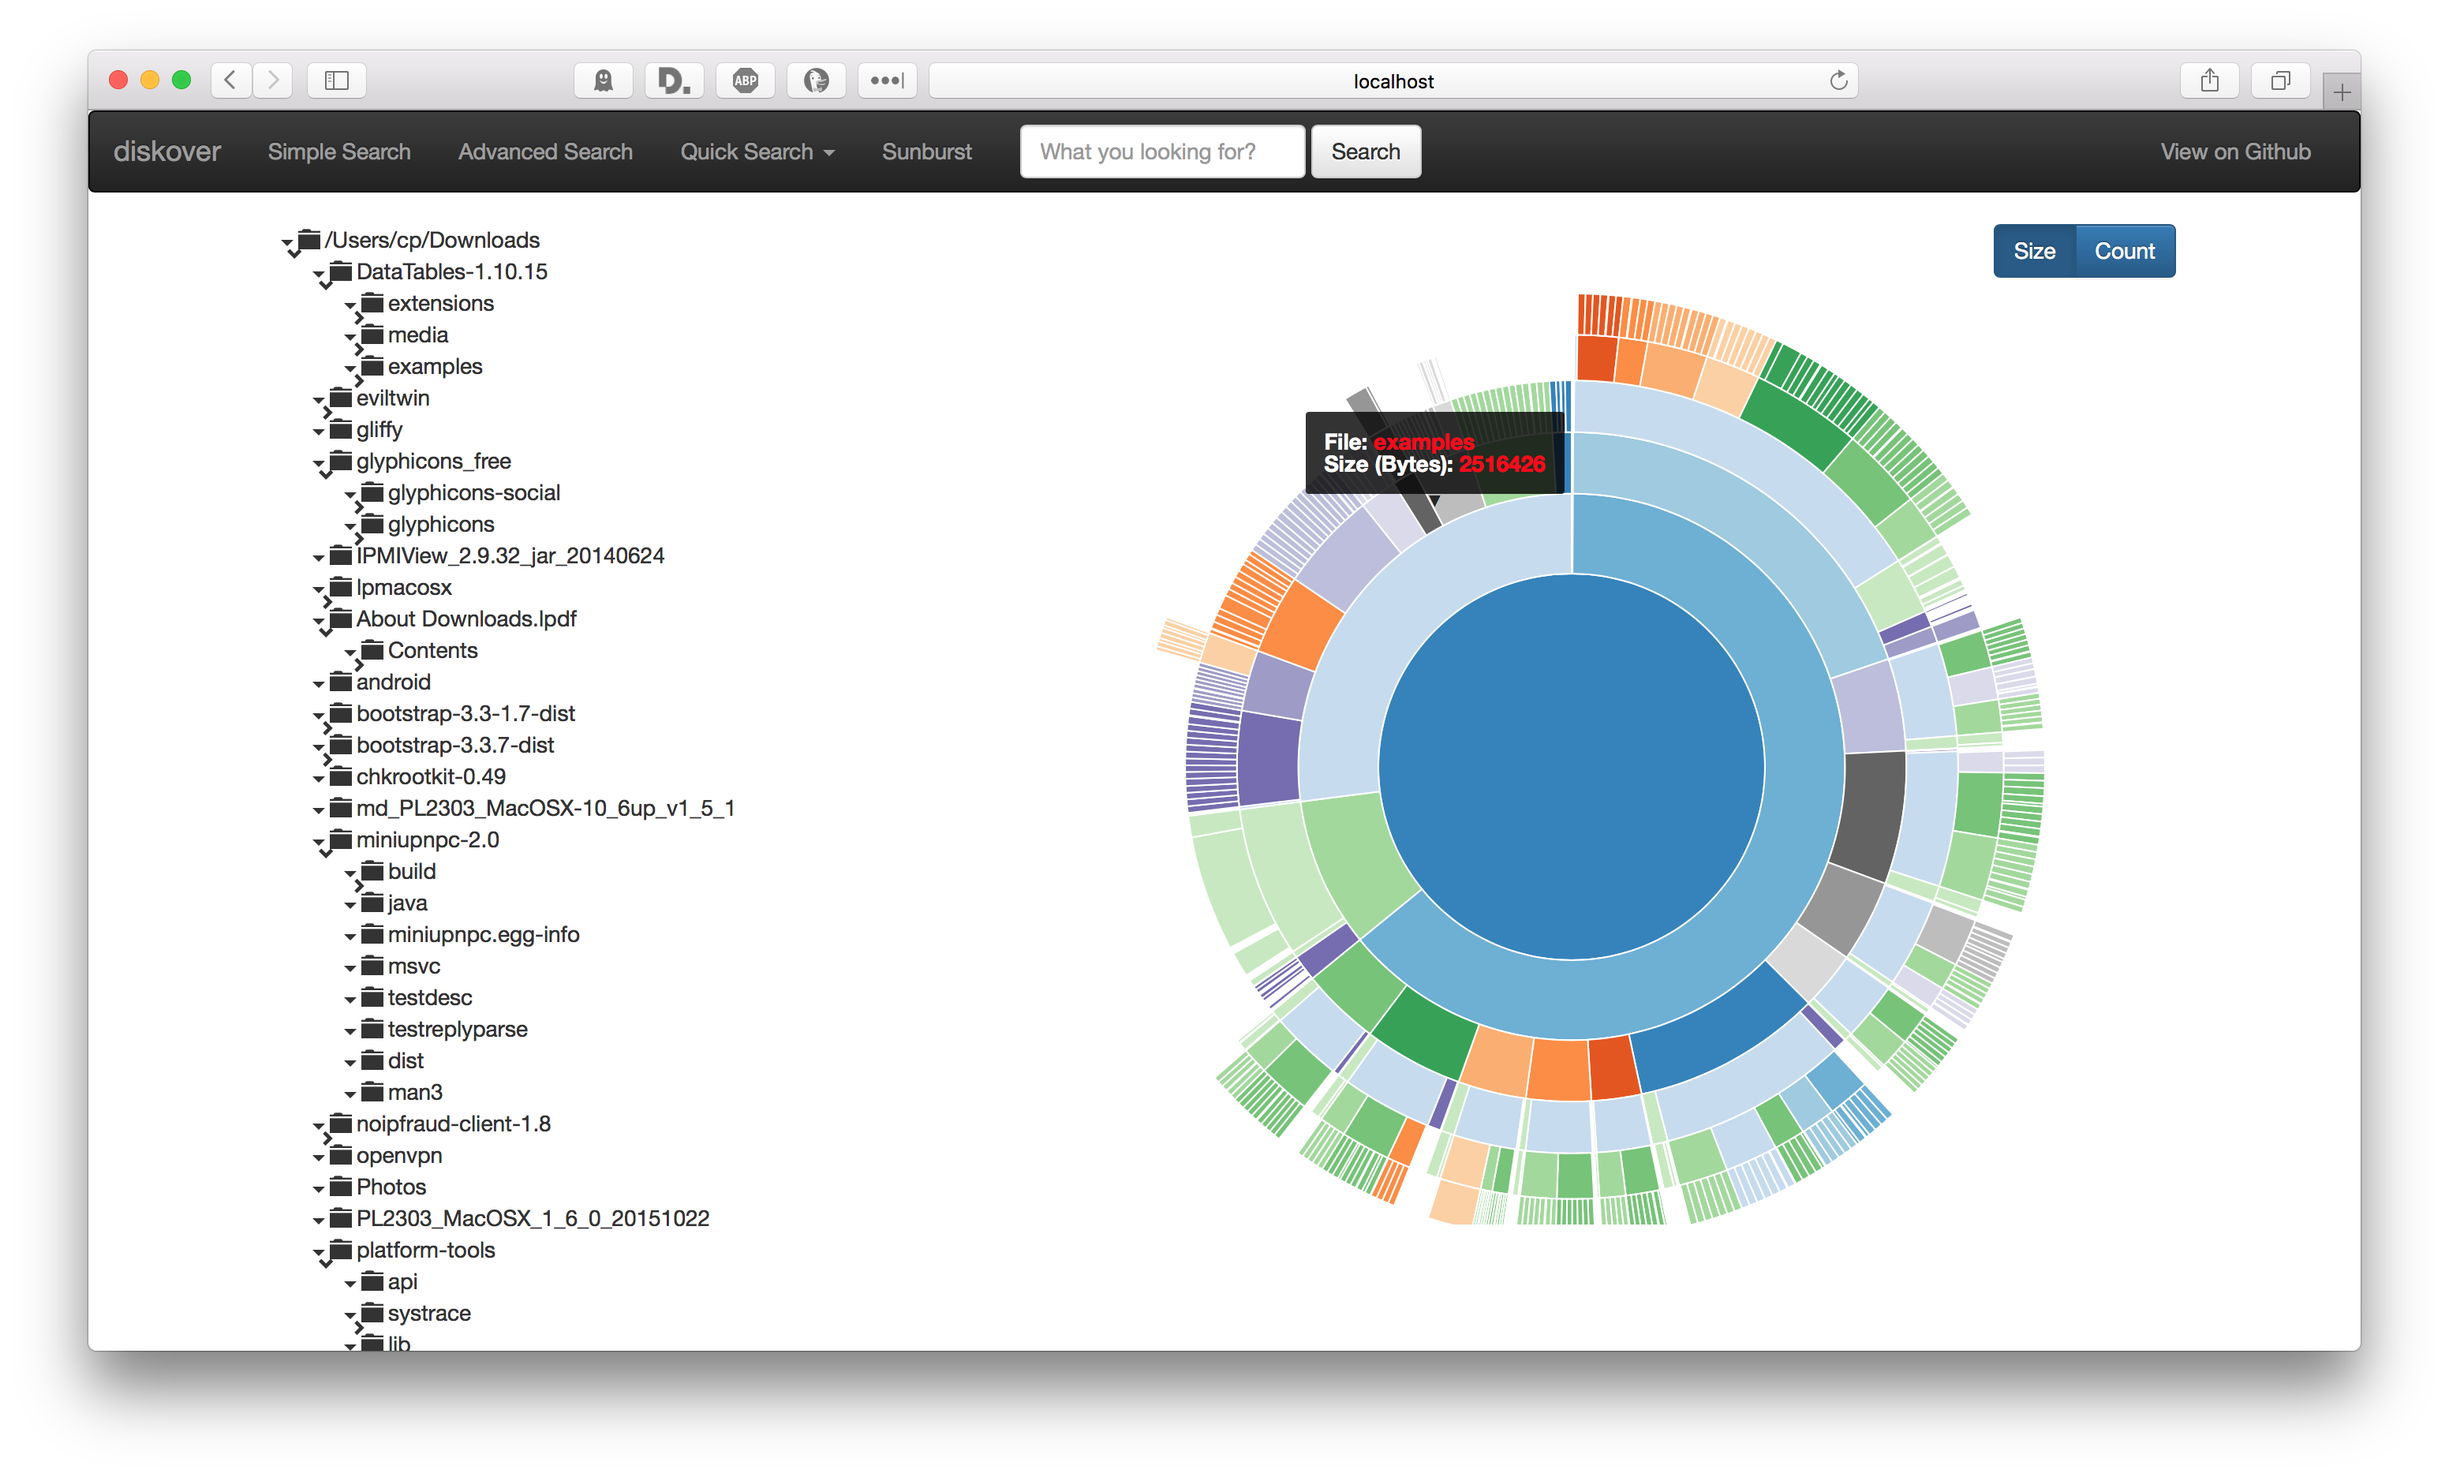
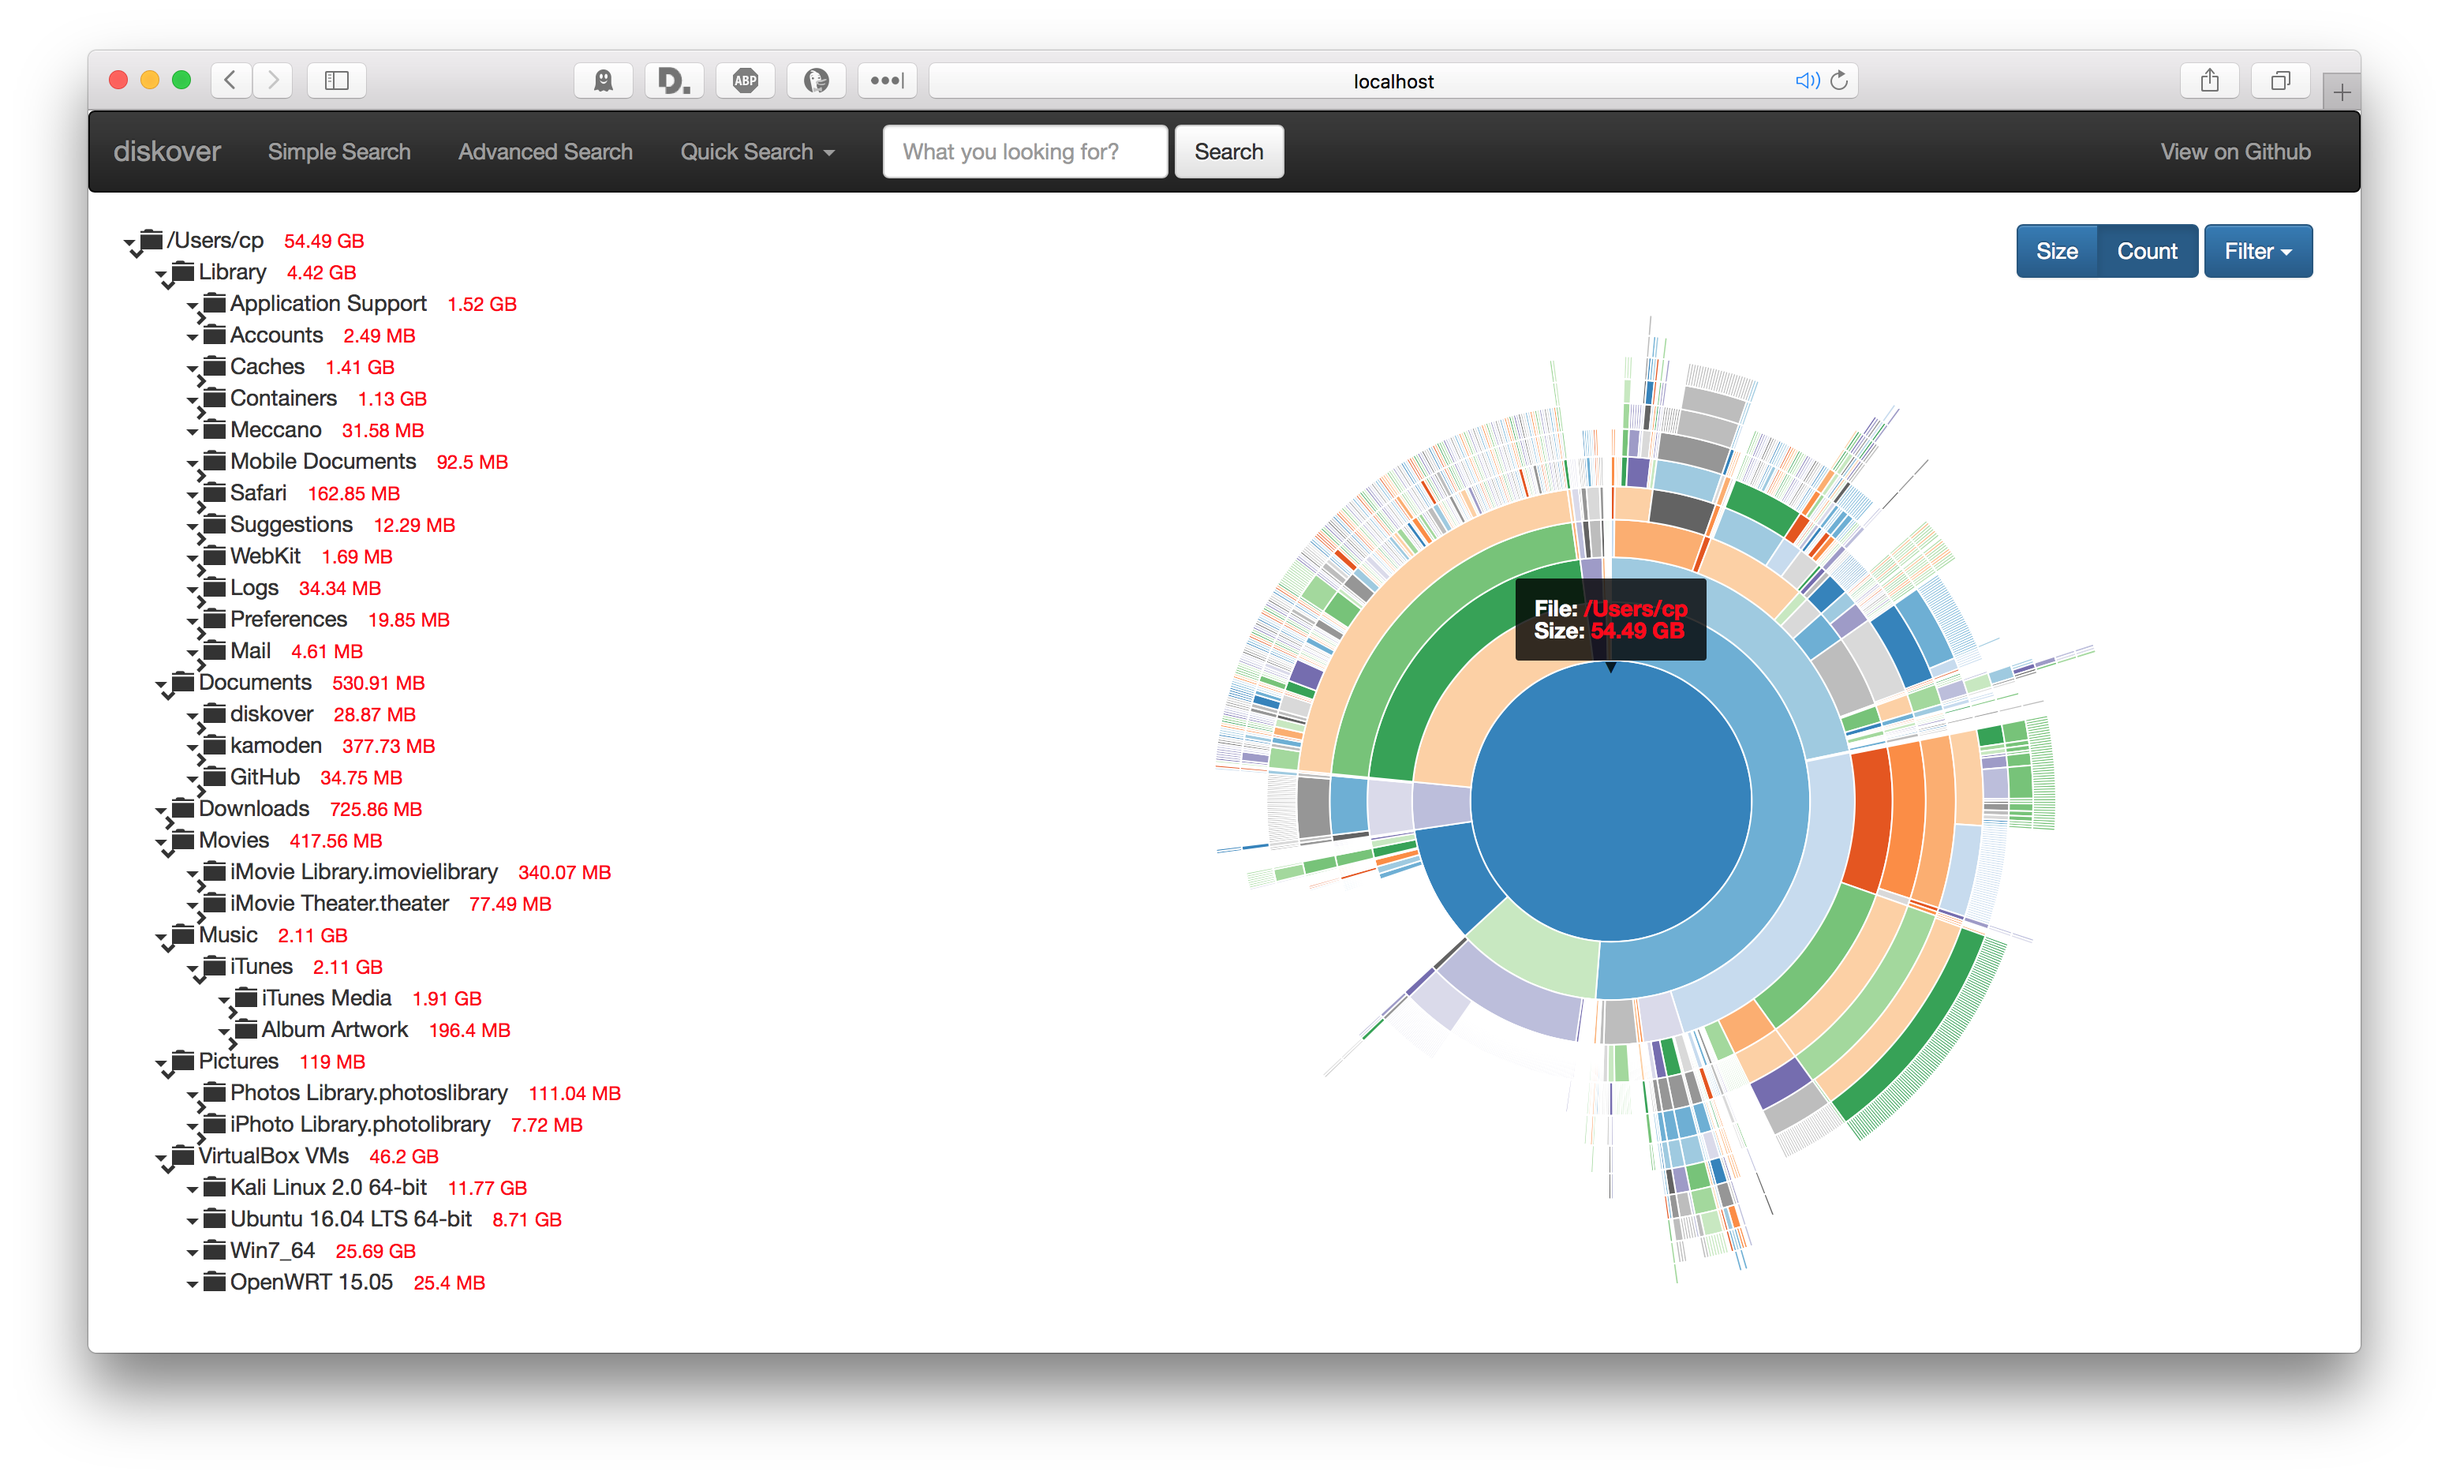
v1.1.3

diff --git a/public/results.php b/public/results.php
@@ -20,7 +20,7 @@ if (count($results[$p]) > 0) {
           <th class="text-nowrap">#</th>
           <th class="text-nowrap">Filename</th>
           <th class="text-nowrap">Parent Path</th>
-          <th class="text-nowrap">Size(bytes)</th>
+          <th class="text-nowrap">Size</th>
           <th class="text-nowrap">Owner</th>
           <th class="text-nowrap">Group</th>
           <th class="text-nowrap">Last Modified (utc)</th>
@@ -36,7 +36,7 @@ if (count($results[$p]) > 0) {
         <th>#</th>
         <th>Filename</th>
         <th>Directory</th>
-        <th>Size(bytes)</th>
+        <th>Size</th>
         <th>Owner</th>
         <th>Group</th>
         <th>Last Modified (utc)</th>
@@ -58,7 +58,7 @@ if (count($results[$p]) > 0) {
         <th scope="row" class="text-nowrap"><?php echo $i; ?></th>
         <td><a href="/view.php?id=<?php echo $result['_id'] . '&index=' . $result['_index']; ?>"><?php echo $file['filename']; ?></a></td>
         <td><a href="/sunburst.php?path=<?php echo $file['path_parent']; ?>"><?php echo $file['path_parent']; ?></a></td>
-        <td class="text-nowrap"><?php echo $file['filesize']; ?></td>
+        <td class="text-nowrap"><?php echo formatBytes($file['filesize']); ?></td>
         <td class="text-nowrap"><?php echo $file['owner']; ?></td>
         <td class="text-nowrap"><?php echo $file['group']; ?></td>
         <td class="text-nowrap"><?php echo $file['last_modified']; ?></td>

diff --git a/public/sunburst.php b/public/sunburst.php
@@ -55,6 +55,12 @@ if (!empty($_GET['filter'])) {
   width: 100%;
   height: 100%;
 }
+
+.filesize {
+    color: red;
+    font-size: 12px;
+    padding-left: 10px;
+}
 </style>
 <body>
 <?php include __DIR__ . "/nav.php"; ?>
@@ -154,6 +160,9 @@ function init() {
 <!-- d3 chart -->
 
 <script>
+    
+// format bytes to mb, gb
+function formatBytes(a,b){if(0==a)return"0 Bytes";var c=1024,d=b||2,e=["Bytes","KB","MB","GB","TB","PB","EB","ZB","YB"],f=Math.floor(Math.log(a)/Math.log(c));return parseFloat((a/Math.pow(c,f)).toFixed(d))+" "+e[f]}
 
 // d3 tree
 
@@ -219,6 +228,9 @@ function updateTree(data, parent) {
   //add text
   entered.append("span").attr("class", "filename")
       .html(function (d) { return d.name; });
+  //add filesize
+  entered.append("span").attr("class", "filesize")
+      .html(function (d) { return formatBytes(d.size); });
   //update caret direction
   nodeEls.select("span.caret").attr("class", function (d) {
       var icon = d.children ? " glyphicon-chevron-down"

diff --git a/public/sunburst_frame.php b/public/sunburst_frame.php
@@ -126,6 +126,9 @@ function init() {
 <!-- d3 chart -->
 
 <script>
+    
+// format bytes to mb, gb
+function formatBytes(a,b){if(0==a)return"0 Bytes";var c=1024,d=b||2,e=["Bytes","KB","MB","GB","TB","PB","EB","ZB","YB"],f=Math.floor(Math.log(a)/Math.log(c));return parseFloat((a/Math.pow(c,f)).toFixed(d))+" "+e[f]}
 
 // d3 sunburst
 
@@ -251,7 +254,7 @@ var tip = d3.tip()
   .attr('class', 'd3-tip')
   .html(function(d) {
     return "<strong>File:</strong> <span style='color:red'>" + d.name + "</span>" +
-      "<br><strong>Size (Bytes):</strong> <span style='color:red'>" + d.size + "</span>";
+      "<br><strong>Size:</strong> <span style='color:red'>" + formatBytes(d.size) + "</span>";
   });
 
 svg.call(tip);

diff --git a/public/view.php b/public/view.php
@@ -62,8 +62,8 @@ if (!empty($message)) {
     <div class="col-xs-5">
       <ul class="list-group">
         <li class="list-group-item">
-          <span class="badge"><?php echo $file['filesize']; ?></span>
-          Filesize (bytes)
+          <span class="badge"><?php echo formatBytes($file['filesize']); ?></span>
+          Filesize
         </li>
         <li class="list-group-item">
           <span class="badge"><?php echo $file['extension']; ?></span>

diff --git a/CHANGELOG.md b/CHANGELOG.md
@@ -1,5 +1,12 @@
 # Diskover Web Change Log
 
+# [1.1.3] - 2017-08-13
+### added
+- sunburst tip shows MB, GB, etc instead of just bytes
+- directory size to file tree on sunburst page
+### changed
+- search results shows MB, GB etc instead of just bytes
+
 # [1.1.2] - 2017-08-12
 ### changed
 - improved page load time of dashboard index page
